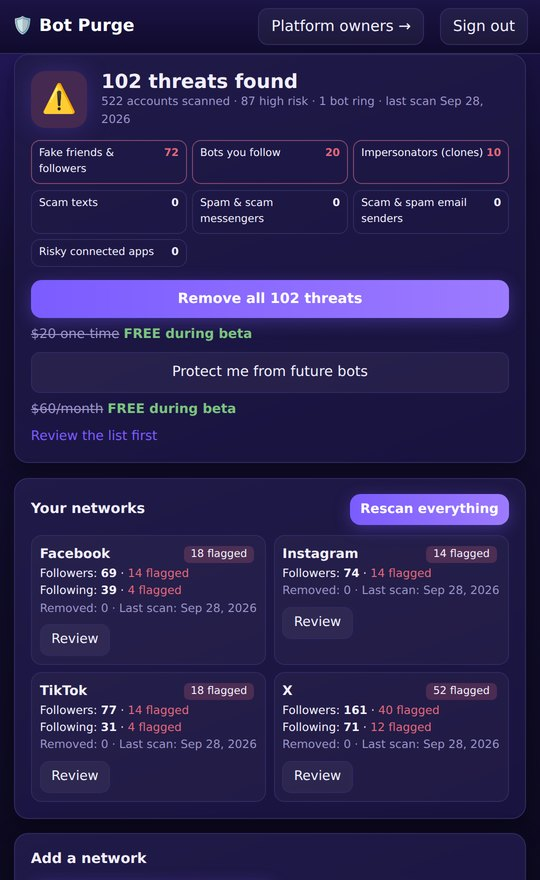
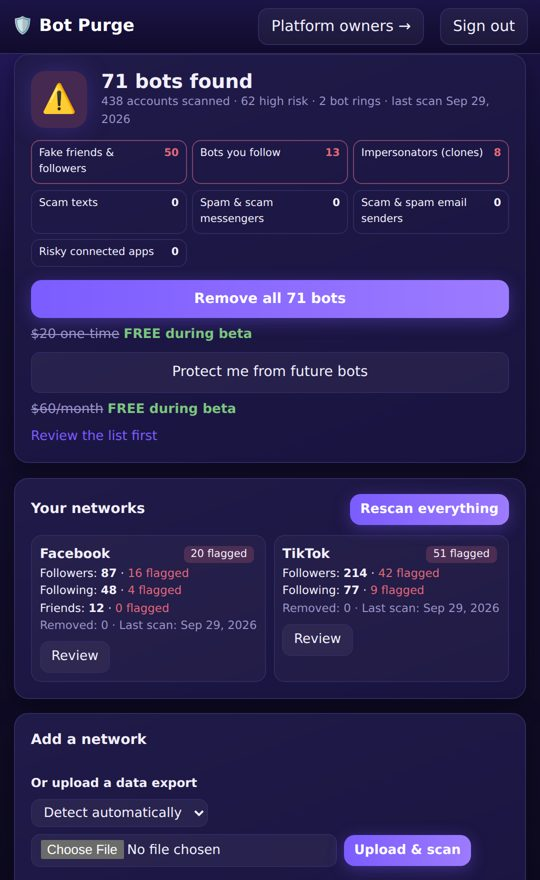
Bot tells from real accounts: random-letter names, names never set, hidden faces; "bots found"
- rules.keyboard_mash: handles and names like yznnkdcp, ynvpxs, cbeanjhgccf
  (short all-consonant names too), with real vowel-less words excepted.
- default_name: display name still the default userNNNN while the handle
  differs.
- vision: a person (upper body / full figure) with no face becomes
  hidden_face, weighted above a faceless photo.
- Live Guard: random_name adds weight to scam text but can't remove a
  viewer on its own.
- Dashboard headline and button say bots instead of threats.

Claude-Session: https://claude.ai/code/session_01QhsHDk4jXgCJA9gELHW2uc

diff --git a/botpurge/web/index.html b/botpurge/web/index.html
@@ -641,12 +641,12 @@ async function loadResult() {
   const box = $("scanResult");
   if (!s.last_scan) { box.innerHTML = `<div class="result-head"><div class="shield idle">🛡</div><div><div class="big">Run your first free scan</div><div class="muted">Connect X or upload an export below. Scanning is always free.</div></div></div>`; return; }
   const color = s.status === "clean" ? "ok" : s.status === "at_risk" ? "bad" : "warn";
-  const head = s.threats ? `${s.threats} threat${s.threats > 1 ? "s" : ""} found` : "No threats found";
+  const head = s.threats ? `${s.threats} bot${s.threats > 1 ? "s" : ""} found` : "No bots found";
   box.innerHTML = `<div class="result-head"><div class="shield ${color}">${s.threats ? "⚠" : "✅"}</div><div>
       <div class="big">${head}</div><div class="muted small">${s.scanned.toLocaleString()} accounts scanned · ${s.high_risk} high risk · ${s.bot_rings} bot ring${s.bot_rings === 1 ? "" : "s"} · last scan ${fmtDate(s.last_scan)}${s.removed ? ` · ${s.removed} removed so far` : ""}</div></div></div>
     <div class="cats">${Object.entries(s.categories).map(([k, n]) => `<div class="cat ${n ? "hit" : ""}"><span>${CAT_NAMES[k]}</span><b>${n}</b></div>`).join("")}</div>
     ${s.threats ? `<div class="cta">
-      <button class="primary big-btn" id="ctaClean">Remove all ${s.threats} threats</button><span class="price">${priceTag(plan("cleanup"))}</span>
+      <button class="primary big-btn" id="ctaClean">Remove all ${s.threats} bots</button><span class="price">${priceTag(plan("cleanup"))}</span>
       <button class="big-btn" id="ctaProtect">Protect me from future bots</button><span class="price">${priceTag(plan("protect"))}</span>
       <button class="link" id="ctaReview">Review the list first</button></div>` : `<div class="cta"><button class="big-btn" id="ctaProtect">Stay protected</button><span class="price">${priceTag(plan("protect"))}</span></div>`}`;
   if ($("ctaClean")) $("ctaClean").onclick = async () => { await activate("cleanup", true); state.ftab = "likely_bot"; switchTab("flags"); };

diff --git a/tests/test_bot_tells.py b/tests/test_bot_tells.py
@@ -1,0 +1,74 @@
+"""Tells from real bot accounts: random-letter names, names never set, and photos that hide the face."""
+import io
+from datetime import datetime, timedelta, timezone
+
+import pytest
+
+from botpurge import rules
+from botpurge.liveguard import ChatMessage, Judge, Policy
+from botpurge.models import Connection, Direction, Platform
+from botpurge.scoring import Scorer
+
+NOW = datetime(2026, 6, 1, tzinfo=timezone.utc)
+
+
+@pytest.mark.parametrize("name", ["yznnkdcp", "ynvpxs", "cbeanjhgccf", "@qxtrvmwl"])
+def test_random_letter_names(name):
+    assert rules.keyboard_mash(name)
+
+
+@pytest.mark.parametrize("name", ["kelsey.m", "chris_p", "brb_chris", "schmidt", "rhythm", "cathyhillarye", "Malugen-Ilixadu",
+                                  "angels1st", "tom_b", "marco88", "lily_rose", "Grace Patel"])
+def test_real_looking_names_are_not_random(name):
+    assert not rules.keyboard_mash(name)
+
+
+def _score(**kw):
+    base = dict(platform=Platform.tiktok, account_id=kw.get("handle", "x"), direction=Direction.follower,
+                connected_at=NOW - timedelta(days=400), created_at=NOW - timedelta(days=900))
+    base.update(kw)
+    return Scorer(now=NOW).score([Connection(**base)])[0]
+
+
+def test_short_keyboard_mash_handle_is_flagged():
+    r = _score(handle="ynvpxs", name="ynvpxs")
+    assert any(x.code == "handle_pattern" and "randomly generated" in x.text for x in r.reasons)
+
+
+def test_default_name_never_set():
+    r = _score(handle="cbeanjhgccf", name="user45418458969")
+    codes = {x.code: x.text for x in r.reasons}
+    assert "default_name" in codes and "user45418458969" in codes["default_name"]
+    assert "handle_pattern" in codes                          # and the handle is random letters too
+    assert "default_name" not in {x.code for x in _score(handle="jen.walsh", name="Jen Walsh").reasons}
+
+
+def test_person_with_hidden_face_is_its_own_signal():
+    hidden = _score(handle="felicity.m", name="Felicity", avatar_labels=["no_face", "hidden_face"])
+    scenery = _score(handle="felicity.m", name="Felicity", avatar_labels=["no_face"])
+    assert "hidden_face" in {x.code for x in hidden.reasons} and "faceless_avatar" not in {x.code for x in hidden.reasons}
+    assert hidden.score > scenery.score
+
+
+def test_vision_labels_a_person_without_a_face():
+    PIL = pytest.importorskip("PIL")
+    from PIL import Image
+    from botpurge import vision
+
+    noisy = Image.effect_noise((200, 200), 60).convert("RGB")   # not a blank placeholder
+    b2 = io.BytesIO(); noisy.save(b2, "PNG")
+    out = vision.analyze(b2.getvalue(), face_detector=lambda i: False, body_detector=lambda i: True)
+    assert out["labels"] == ["no_face", "hidden_face"]
+    out = vision.analyze(b2.getvalue(), face_detector=lambda i: False, body_detector=lambda i: False)
+    assert out["labels"] == ["no_face"]
+
+
+def test_random_live_name_alone_never_gets_a_viewer_removed():
+    j = Judge(Policy(mode="protect"))
+    t = datetime(2026, 6, 1, 20, tzinfo=timezone.utc)
+    m = lambda who, text, s: ChatMessage(platform="tiktok", author_id=who, author_name=who, text=text, at=t + timedelta(seconds=s))
+    calm = j.judge(m("ynvpxs", "hi from Ohio!", 0))
+    assert calm.action == "none" and any("random letters" in r for r in calm.reasons)
+    scam = j.judge(m("qxtrvmwl", "I made $8,400 this week with my trading coach, message me on WhatsApp", 5))
+    plain = Judge(Policy(mode="protect")).judge(m("dana.r", "I made $8,400 this week with my trading coach, message me on WhatsApp", 5))
+    assert scam.score > plain.score and scam.action != "none"

diff --git a/botpurge/vision.py b/botpurge/vision.py
@@ -6,6 +6,9 @@ Runs locally; photos are never uploaded anywhere and never stored — only the
 Labels:
   * ``blank``   — a flat single colour (or nearly): a default or placeholder picture
   * ``no_face`` — no human face found (back of the head, a car, a logo, a sunset...)
+  * ``hidden_face`` — a person is in the photo but their face isn't: turned away, a phone held
+    in front of it (mirror selfies), or too far away to see. Fake accounts use these so the
+    stolen photo can't be traced to a face.
 
 "No face" is weak evidence on its own (plenty of real people use a pet or a
 view as their picture); it only adds up alongside bot-like messages or other
@@ -26,6 +29,7 @@ except ImportError:  # pragma: no cover
     Image = None  # type: ignore
 
 _cascades = None
+_bodies = None
 
 
 def _detectors():
@@ -41,6 +45,31 @@ def _detectors():
         except Exception:  # OpenCV missing or without cascades
             _cascades = []
     return _cascades
+
+
+def _body_detectors():
+    global _bodies
+    if _bodies is None:
+        try:
+            import cv2
+
+            base = cv2.data.haarcascades
+            _bodies = [cv2.CascadeClassifier(base + n) for n in ("haarcascade_upperbody.xml", "haarcascade_fullbody.xml")]
+            _bodies = [c for c in _bodies if not c.empty()]
+        except Exception:
+            _bodies = []
+    return _bodies
+
+
+def has_body(img) -> Optional[bool]:
+    """Is there a person (upper body or full figure) in the photo? None when no detector is available."""
+    dets = _body_detectors()
+    if not dets:
+        return None
+    import numpy as np
+
+    gray = np.array(img.convert("L").resize((256, 256)))
+    return any(len(d.detectMultiScale(gray, scaleFactor=1.05, minNeighbors=3, minSize=(40, 40))) for d in dets)
 
 
 def available() -> dict:
@@ -64,7 +93,7 @@ def has_face(img) -> Optional[bool]:
     return False
 
 
-def analyze(data: bytes, face_detector: Optional[Callable] = None) -> dict:
+def analyze(data: bytes, face_detector: Optional[Callable] = None, body_detector: Optional[Callable] = None) -> dict:
     """{"hash": hex or None, "labels": [...]} for an encoded image."""
     if Image is None:
         return {"hash": None, "labels": []}
@@ -83,6 +112,8 @@ def analyze(data: bytes, face_detector: Optional[Callable] = None) -> dict:
     face = (face_detector or has_face)(img)
     if face is False or (face is None and "blank" in labels):
         labels.append("no_face")
+        if face is False and "blank" not in labels and (body_detector or has_body)(img):
+            labels.append("hidden_face")
     return {"hash": h, "labels": labels}
 
 

diff --git a/botpurge/scoring.py b/botpurge/scoring.py
@@ -21,7 +21,7 @@ from datetime import datetime, timedelta, timezone
 from difflib import SequenceMatcher
 from typing import Iterable, Optional
 
-from . import imagehash
+from . import imagehash, rules
 from .models import Connection, Direction, Label, Reason, ScoredAccount, label_for
 
 # Base weight of each signal: the most it can contribute on its own.
@@ -32,6 +32,8 @@ WEIGHTS: dict[str, float] = {
     "handle_pattern": 0.30,
     "default_photo": 0.25,
     "faceless_avatar": 0.15,
+    "hidden_face": 0.30,
+    "default_name": 0.25,
     "stock_photo": 0.40,
     "follow_ratio": 0.35,
     "spam_bio": 0.40,
@@ -89,8 +91,10 @@ def _norm_name(s: str) -> str:
 
 
 def _random_handle(handle: str) -> bool:
-    """Heuristic for machine-generated handles: long consonant runs or high digit share."""
+    """Heuristic for machine-generated handles: long consonant runs, keyboard mash or high digit share."""
     h = handle.lower().lstrip("@")
+    if rules.keyboard_mash(h):
+        return True
     if len(h) < 8:
         return False
     digits = sum(ch.isdigit() for ch in h)
@@ -387,8 +391,13 @@ class Scorer:
             add("default_photo", 1.0, "No profile photo")
         elif "blank" in c.avatar_labels:
             add("default_photo", 0.8, "Profile photo is a blank placeholder")
+        elif "hidden_face" in c.avatar_labels:
+            add("hidden_face", 1.0, "Profile photo shows a person but never their face (turned away, phone in front of it, or too far away)")
         elif "no_face" in c.avatar_labels:
             add("faceless_avatar", 1.0, "Profile photo shows no face (back of head, object or scenery)")
+        name = (c.name or "").strip()
+        if re.fullmatch(r"user\d{6,}", name, re.I) and name.lower() != handle.lower():
+            add("default_name", 1.0, f"Never set a name: still the default \u201c{name}\u201d")
         if c.avatar_hash and any(imagehash.similar(c.avatar_hash, s, 6) for s in ctx.stock_hashes):
             add("stock_photo", 1.0, "Profile photo matches a known stock or AI-generated image")
 

diff --git a/botpurge/rules.py b/botpurge/rules.py
@@ -379,6 +379,25 @@ BAIT_NAME = R(r"(on telegram|via telegram|telegram me|tlgrm|on nicegram|on insta
 PINNED = R(r"pinned\s*by")
 
 
+_VOWELS = set("aeiou")
+_REAL_NO_VOWELS = {"rhythm", "rhythms", "crypt", "crypts", "lynx", "myths", "glyph", "glyphs", "nymph", "nymphs", "psych", "synth",
+                   "synths", "gypsy", "tryst", "flyby", "shyly", "slyly", "dryly", "lymph", "pygmy", "sylph", "xysts"}
+
+
+def keyboard_mash(name: str) -> bool:
+    """Names made of random letters ("yznnkdcp", "ynvpxs", "cbeanjhgccf"): no real name reads like that."""
+    for part in re.split(r"[\s._\-]+", (name or "").lower().lstrip("@")):
+        letters = re.sub(r"[^a-z]", "", part)
+        if len(letters) < 5 or len(letters) != len(part):
+            continue
+        vowels = sum(ch in _VOWELS for ch in letters)
+        if vowels == 0 and letters not in _REAL_NO_VOWELS:         # ynvpxs
+            return True
+        if len(letters) >= 8 and re.search(r"[bcdfghjklmnpqrstvwxz]{5,}", letters):   # yznnkdcp, cbeanjhgccf
+            return True
+    return False
+
+
 def evaluate_username(name: str) -> list[Hit]:
     c = normalize(name or "")
     squashed = re.sub(r"[\s_.\-*|]+", " ", c.leet)

diff --git a/botpurge/liveguard.py b/botpurge/liveguard.py
@@ -164,7 +164,10 @@ class Judge:
         elif key in self.scorer.known_bots:
             sigs["known_bot"] = (1.0, "Already flagged as a bot in your followers")
 
-        weights = {**WEIGHTS, "confirmed_bot": 0.85, "coordinated_script": 0.8, "impersonation": 0.85, "bait_name": 0.5, "chat_rule": 0.7}
+        if rules.keyboard_mash(m.author_name or m.author_id):   # "ynvpxs": weak alone, adds up with scam text
+            sigs["random_name"] = (1.0, "Name is random letters")
+        weights = {**WEIGHTS, "confirmed_bot": 0.85, "coordinated_script": 0.8, "impersonation": 0.85, "bait_name": 0.5, "chat_rule": 0.7,
+                   "random_name": 0.25}
         reasons = sorted(((weights[c] * s, t, c) for c, (s, t) in sigs.items()), reverse=True)
         p = 1.0
         for w, _, _ in reasons:

diff --git a/README.md b/README.md
@@ -1,6 +1,6 @@
 # Bot Purge
 
-**Bots, fakes and scammers, gone.** Bot Purge scans your followers, friends and the accounts you follow, plus your DMs, texts, email, connected apps and live-stream chats. It shows every threat it finds, antivirus-style ("37 threats found"), and removes them. For people and creators, and for companies that want to purge bots from their whole platform.
+**Bots, fakes and scammers, gone.** Bot Purge scans your followers, friends and the accounts you follow, plus your DMs, texts, email, connected apps and live-stream chats. It shows every threat it finds, antivirus-style ("37 bots found"), and removes them. For people and creators, and for companies that want to purge bots from their whole platform.
 
 It never needs a social media password. X connects through its official sign-in; everything else is read from the data export each platform lets you download, or from a phone or mail backup on your own computer.
 
@@ -8,7 +8,7 @@ It never needs a social media password. X connects through its official sign-in;
 
 | | | | |
 |:-:|:-:|:-:|:-:|
-| <img src="docs/screenshots/01-start.jpg" width="200" alt="Sign up with just an email"><br>**Free scan, no passwords** | <img src="docs/screenshots/02-threats-found.jpg" width="200" alt="Threats found on every network"><br>**Threats found, every network** | <img src="docs/screenshots/03-flagged-accounts.jpg" width="200" alt="Flagged accounts with reasons"><br>**Every flag has reasons** | <img src="docs/screenshots/04-remove-block-report.jpg" width="200" alt="Remove, block or report"><br>**Remove, block or report** |
+| <img src="docs/screenshots/01-start.jpg" width="200" alt="Sign up with just an email"><br>**Free scan, no passwords** | <img src="docs/screenshots/02-threats-found.jpg" width="200" alt="Bots found on every network"><br>**Bots found, every network** | <img src="docs/screenshots/03-flagged-accounts.jpg" width="200" alt="Flagged accounts with reasons"><br>**Every flag has reasons** | <img src="docs/screenshots/04-remove-block-report.jpg" width="200" alt="Remove, block or report"><br>**Remove, block or report** |
 | <img src="docs/screenshots/05-step-by-step.jpg" width="200" alt="Step-by-step instructions"><br>**Step by step, or done for you** | <img src="docs/screenshots/06-messages-email-texts.jpg" width="200" alt="Scam messages, emails and texts"><br>**DMs, texts and email** | <img src="docs/screenshots/07-live-guard.jpg" width="200" alt="Live Guard bans giveaway bots"><br>**Live Guard** | <img src="docs/screenshots/08-plans.jpg" width="200" alt="Plans"><br>**Plans: free during beta** |
 | <img src="docs/screenshots/09-select-all.jpg" width="200" alt="Select all flagged accounts"><br>**Select all, delete in one go** | <img src="docs/screenshots/10-removal-queue.jpg" width="200" alt="Every selected account in the removal queue"><br>**One removal list** | <img src="docs/screenshots/11-gmail-yahoo-mail.jpg" width="200" alt="Scam emails from Gmail and Yahoo Mail flagged, ready to move to Trash"><br>**Scam email to Trash** | <img src="docs/screenshots/12-your-agent.jpg" width="200" alt="Telling the agent to scan only TikTok followers"><br>**Tell your agent what to scan** |
 
@@ -79,6 +79,13 @@ Detection judges **behaviour, never opinions**. A flood of copy-pasted lines get
 - **Evasion:** before any rule runs, text is normalised. Lookalike letters, zero-width characters, split links ("site . com") and stacked accents are undone, and hiding tricks count as evidence in themselves.
 
 The research behind every rule, with sources and caveats, is in [docs/detection-rules.md](docs/detection-rules.md).
+
+### Tells from real bot accounts
+
+- **Random-letter names:** handles and names like "yznnkdcp" or "ynvpxs" that no person would pick.
+- **Names never set:** a display name still at the default "user45418458969" while the handle is something else.
+- **Hidden faces:** a person is in the profile photo but their face never is (turned away, a phone in front of it in a mirror selfie, or too far away). Stronger than a photo with no person at all.
+- **Live chat:** a random-letter name adds weight to scam text, but never gets a viewer removed on its own.
 
 ### Canary traps
 

diff --git a/CHANGELOG.md b/CHANGELOG.md
@@ -2,6 +2,8 @@
 
 ## Unreleased
 
+- **More bot tells:** random-letter names, names never set ("user45418458969"), and profile photos that show a person but hide the face. The dashboard now says "bots found".
+
 - **Uploads as downloaded:** upload the export .zip (or file) without unzipping or picking the network; Bot Purge works out which network or message type it is. Drag and drop onto the upload boxes. Picking it yourself still works.
 - **Yahoo Mail:** inbox connection, next to Gmail and Outlook. All three now check the Inbox and Spam folders.
 - **Email cleanup (optional):** with the extra permission, move every flagged sender's emails to Trash or Spam in one press. Never deleted for good.
